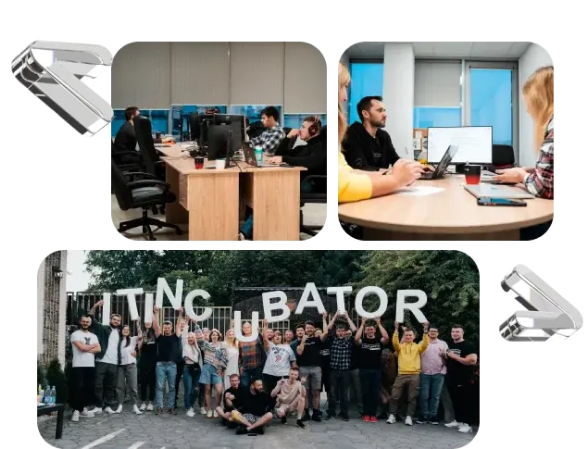
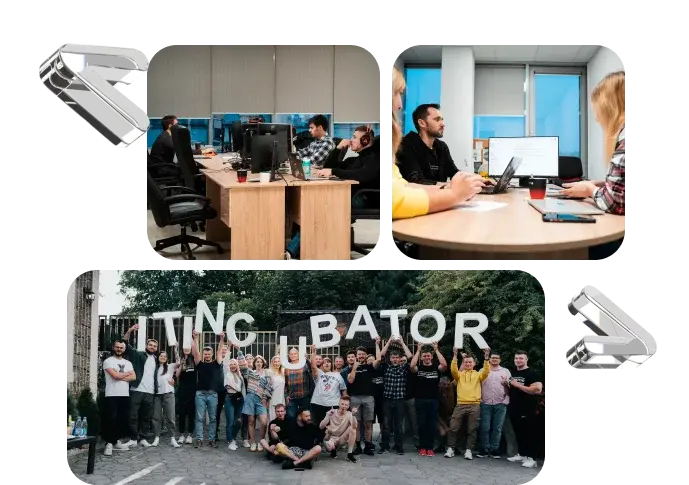
Смена картинок, добавление заголовков

diff --git a/src/components/Experts.tsx b/src/components/Experts.tsx
@@ -5,78 +5,86 @@ import avatar2 from "../assets/experts/avatar-2.png";
 import avatar3 from "../assets/experts/avatar-3.png";
 import avatar4 from "../assets/experts/avatar-4.png";
 import { useState } from "react";
+import { DividerDots } from "@/widgets/DividerDots";
 
 export const Experts = () => {
-    const [openDescId, setOpenDescId] = useState<number | null>(null);
+  const [openDescId, setOpenDescId] = useState<number | null>(null);
 
-    const onHoverAvatar = (id: number) => setOpenDescId(id);
-    const onMouseLeave = () => setOpenDescId(null);
+  const onHoverAvatar = (id: number) => setOpenDescId(id);
+  const onMouseLeave = () => setOpenDescId(null);
 
-    return (
-        <section className="w-full max-w-[1440px] h-[750px] mt-12 pt-12">
-            <div className="flex flex-col items-center">
-                <p className="text-[48px] leading-normal">Наши эксперты</p>
-                <DividerSolid className="w-[130px]" />
-                <p className="mt-8">
-                    Каждый из наших сотрудников является экспертом в своей
-                    области с опытом <b>более 5 лет</b>
-                </p>
-            </div>
+  return (
+    <section className="w-full max-w-[1440px] h-[750px] mt-12 pt-12">
+      <div className="flex flex-col items-center">
+        <DividerDots className="mb-10" />
+        <p className="text-[48px] leading-normal">Наши эксперты</p>
+        <DividerSolid className="w-[130px]" />
+        <p className="mt-8">
+          Каждый из наших сотрудников является экспертом в своей области с
+          опытом <b>более 5 лет</b>
+        </p>
+      </div>
 
+      <div
+        className="h-[500px] mt-8 pl-32 flex justify-center items-center"
+        style={{ backgroundImage: `url(${bg})` }}
+      >
+        <div className="flex flex-wrap w-[768px] gap-8">
+          {experts.map((el, idx) => (
             <div
-                className="h-[500px] mt-8 pl-32 flex justify-center items-center"
-                style={{ backgroundImage: `url(${bg})` }}
+              className="w-[350px] h-[200px] cursor-pointer flex relative"
+              onMouseEnter={() => onHoverAvatar(idx)}
+              onMouseLeave={onMouseLeave}
             >
-                <div className="flex flex-wrap w-[768px] gap-8">
-                    {experts.map((el, idx) => (
-                        <div
-                            className="w-[350px] h-[200px] cursor-pointer flex relative"
-                            onMouseEnter={() => onHoverAvatar(idx)}
-                            onMouseLeave={onMouseLeave}
-                        >
-                            <img src={el.img} className="absolute z-10 h-[105px] w-[100px]" style={{zIndex: "10", borderRadius: "5px"}}/>
-                            {openDescId === idx && (
-                                <div className="absolute z-[1] top-[30px] left-[30px] pl-[40px] w-[340px] h-[160px] rounded-lg px-4 py-2 ml-2 text-white bg-gradient-to-r from-[#1D2228] to-[#313944]">
-                                    <p className="text-[18px] pl-12 font-bold">{el.name}</p>
-                                    <p className="text-[13px] min-h-[35px] pl-12 text-[#5F6164]">{el.spec}</p>
-                                    <p className="text-[10px] mt-4">{el.desc}</p>
-                                </div>
-                            )}
-                        </div>
-                    ))}
+              <img
+                src={el.img}
+                className="absolute z-10 h-[105px] w-[100px]"
+                style={{ zIndex: "10", borderRadius: "5px" }}
+              />
+              {openDescId === idx && (
+                <div className="absolute z-[1] top-[30px] left-[30px] pl-[40px] w-[340px] h-[160px] rounded-lg px-4 py-2 ml-2 text-white bg-gradient-to-r from-[#1D2228] to-[#313944]">
+                  <p className="text-[18px] pl-12 font-bold">{el.name}</p>
+                  <p className="text-[13px] min-h-[35px] pl-12 text-[#5F6164]">
+                    {el.spec}
+                  </p>
+                  <p className="text-[10px] mt-4">{el.desc}</p>
                 </div>
+              )}
             </div>
-        </section>
-    );
+          ))}
+        </div>
+      </div>
+    </section>
+  );
 };
 
 const experts = [
-    {
-        id: 1,
-        img: avatar2,
-        name: "Анна Журавлева",
-        spec: "Эксперт Психологии",
-        desc: "В своей практической работе использует методы психоанализа, кризисной и семейной психологии, психосоматики и гештальт терапии.",
-    },
-    {
-        id: 2,
-        img: avatar1,
-        name: "Александр Тараскин",
-        spec: "CEO",
-        desc: "В свой практике использует весь наработанный экспертный опыт в областе аналитики. А так же опыт управления командами.",
-    },
-    {
-        id: 3,
-        img: avatar3,
-        name: "Иван Капусткин",
-        spec: "Руководитель технического департамента",
-        desc: "В своей практики использует свой многолетний опыт разработки frontend и backend, опыт обучения сотрудников и их развития",
-    },
-    {
-        id: 4,
-        img: avatar4,
-        name: "Олег Осипов",
-        spec: "Руководитель юридического департамента ",
-        desc: "Использует в своей работе анализ актуальной судебной практики, нестандартные и стандартные логические пути решения",
-    },
+  {
+    id: 1,
+    img: avatar2,
+    name: "Анна Журавлева",
+    spec: "Эксперт Психологии",
+    desc: "В своей практической работе использует методы психоанализа, кризисной и семейной психологии, психосоматики и гештальт терапии.",
+  },
+  {
+    id: 2,
+    img: avatar1,
+    name: "Александр Тараскин",
+    spec: "CEO",
+    desc: "В свой практике использует весь наработанный экспертный опыт в областе аналитики. А так же опыт управления командами.",
+  },
+  {
+    id: 3,
+    img: avatar3,
+    name: "Иван Капусткин",
+    spec: "Руководитель технического департамента",
+    desc: "В своей практики использует свой многолетний опыт разработки frontend и backend, опыт обучения сотрудников и их развития",
+  },
+  {
+    id: 4,
+    img: avatar4,
+    name: "Олег Осипов",
+    spec: "Руководитель юридического департамента ",
+    desc: "Использует в своей работе анализ актуальной судебной практики, нестандартные и стандартные логические пути решения",
+  },
 ];

diff --git a/src/components/Steps.tsx b/src/components/Steps.tsx
@@ -7,68 +7,69 @@ import web from "../assets/steps/web.png";
 import brand from "../assets/steps/brand.png";
 
 import ArrowSvg from "../assets/steps/arrow.svg";
+import { DividerSolid } from "@/widgets/DividerSolid";
+import { DividerDots } from "@/widgets/DividerDots";
 
 export const Steps = () => {
-    return (
-        <section
-            className="w-full max-w-[1440px] h-[920px] mt-12 pt-12"
-            style={{ backgroundImage: `url(${bg})` }}
-        >
-            <div className="flex justify-around items-center">
-                <div className="flex flex-col items-center">
-                    <img src={smm} alt="" />
-                    <p className="mt-4 text-[20px] font-medium">Развитие SMM</p>
-                </div>
-                <ArrowSvg className="rotate-[-90deg]" />
-                <div className="flex flex-col items-center">
-                    <img src={media} alt="" />
-                    <p className="mt-4 text-[20px] font-medium">
-                        Развитие медиа
-                    </p>
-                </div>
-                <ArrowSvg className="rotate-[-90deg]" />
-                <div className="flex flex-col items-center">
-                    <img src={partnership} alt="" />
-                    <p className="mt-4 text-[20px] font-medium">
-                        Поиск партнеров
-                    </p>
-                </div>
-            </div>
+  return (
+    <>
+      <div className="flex flex-col items-center mt-12">
+        <DividerDots className="mb-10" />
+        <p className="text-[48px] leading-normal">Наш путь</p>
+        <DividerSolid className="w-[130px]" />
+      </div>
+      <section
+        className="w-full max-w-[1440px] h-[920px] mt-12 pt-12"
+        style={{ backgroundImage: `url(${bg})` }}
+      >
+        <div className="flex justify-around items-center">
+          <div className="flex flex-col items-center">
+            <img src={smm} alt="" />
+            <p className="mt-4 text-[20px] font-medium">Развитие SMM</p>
+          </div>
+          <ArrowSvg className="rotate-[-90deg]" />
+          <div className="flex flex-col items-center">
+            <img src={media} alt="" />
+            <p className="mt-4 text-[20px] font-medium">Развитие медиа</p>
+          </div>
+          <ArrowSvg className="rotate-[-90deg]" />
+          <div className="flex flex-col items-center">
+            <img src={partnership} alt="" />
+            <p className="mt-4 text-[20px] font-medium">Поиск партнеров</p>
+          </div>
+        </div>
 
-            <div className="flex justify-around items-center my-16">
-                <div className="w-[332px]"></div>
-                <div className="w-[81px]"></div>
-                <div className="w-[332px]"></div>
-                <div className="w-[81px]"></div>
-                <div className="w-[332px] flex justify-center">
-                    <ArrowSvg />
-                </div>
-            </div>
+        <div className="flex justify-around items-center my-16">
+          <div className="w-[332px]"></div>
+          <div className="w-[81px]"></div>
+          <div className="w-[332px]"></div>
+          <div className="w-[81px]"></div>
+          <div className="w-[332px] flex justify-center">
+            <ArrowSvg />
+          </div>
+        </div>
 
-            <div className="flex justify-around items-center">
-                <div className="flex flex-col items-center">
-                    <img src={landing} alt="" />
-                    <p className="mt-4 text-[20px] font-medium">
-                        Развитие бренда
-                    </p>
-                </div>
-                <ArrowSvg className="rotate-90" />
+        <div className="flex justify-around items-center">
+          <div className="flex flex-col items-center">
+            <img src={landing} alt="" />
+            <p className="mt-4 text-[20px] font-medium">Развитие бренда</p>
+          </div>
+          <ArrowSvg className="rotate-90" />
 
-                <div className="flex flex-col items-center">
-                    <img src={web} alt="" />
-                    <p className="mt-4 text-[20px] font-medium">
-                        Разработка приложения
-                    </p>
-                </div>
-                <ArrowSvg className="rotate-90" />
+          <div className="flex flex-col items-center">
+            <img src={web} alt="" />
+            <p className="mt-4 text-[20px] font-medium">
+              Разработка приложения
+            </p>
+          </div>
+          <ArrowSvg className="rotate-90" />
 
-                <div className="flex flex-col items-center">
-                    <img src={brand} alt="" />
-                    <p className="mt-4 text-[20px] font-medium">
-                        Создание лендинга
-                    </p>
-                </div>
-            </div>
-        </section>
-    );
+          <div className="flex flex-col items-center">
+            <img src={brand} alt="" />
+            <p className="mt-4 text-[20px] font-medium">Создание лендинга</p>
+          </div>
+        </div>
+      </section>
+    </>
+  );
 };

diff --git a/src/components/Partners.tsx b/src/components/Partners.tsx
@@ -15,11 +15,16 @@ import WhatsAppLogo from "../assets/whatsapp.svg";
 import InstLogo from "../assets/inst.svg";
 import TgLogo from "../assets/tg.svg";
 import { Link } from "react-router-dom";
+import { DividerDots } from "@/widgets/DividerDots";
 
 export const Partners = () => {
   return (
     <section className="mt-10">
-      <p className="text-center mb-10 text-[36px]">Наши партнеры</p>
+      <div className="flex flex-col items-center mt-12 mb-10">
+        <DividerDots className="mb-10" />
+        <p className="text-[48px] leading-normal">Наши партнеры</p>
+        <DividerSolid className="w-[130px]" />
+      </div>
       <Carousel
         responsive={{
           desktop: {
